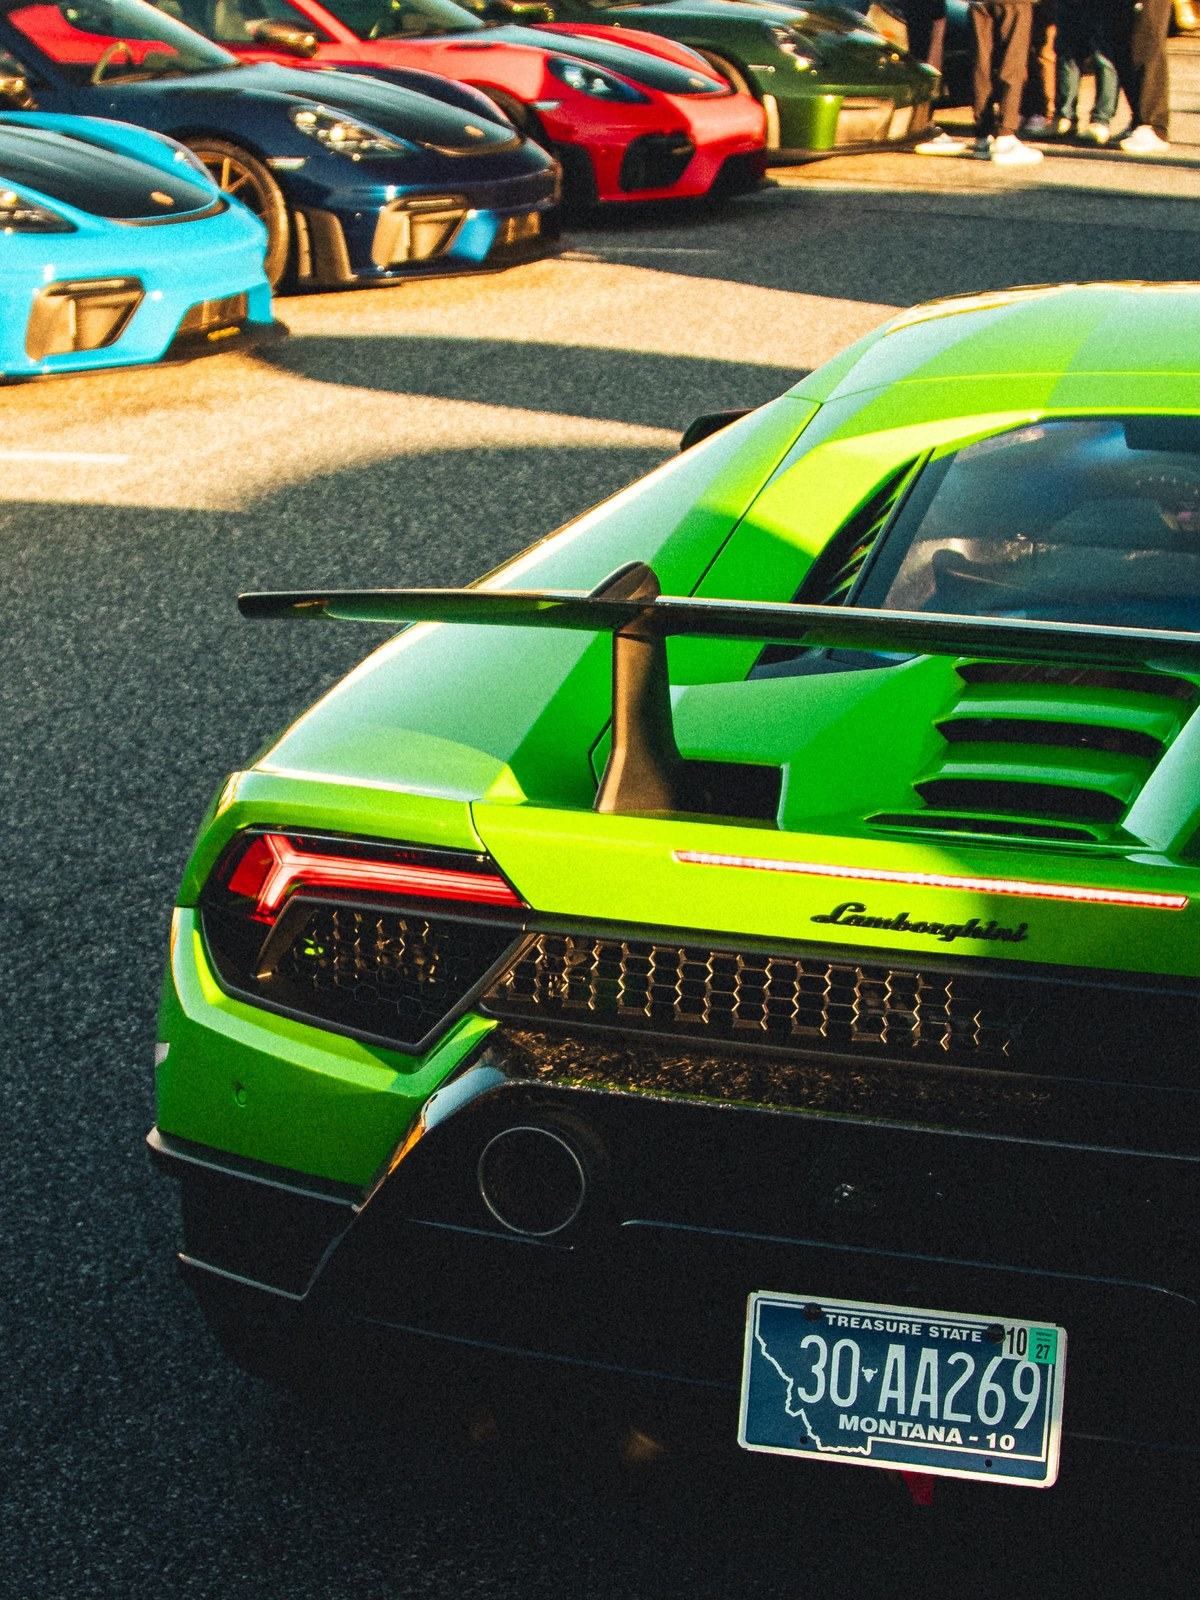
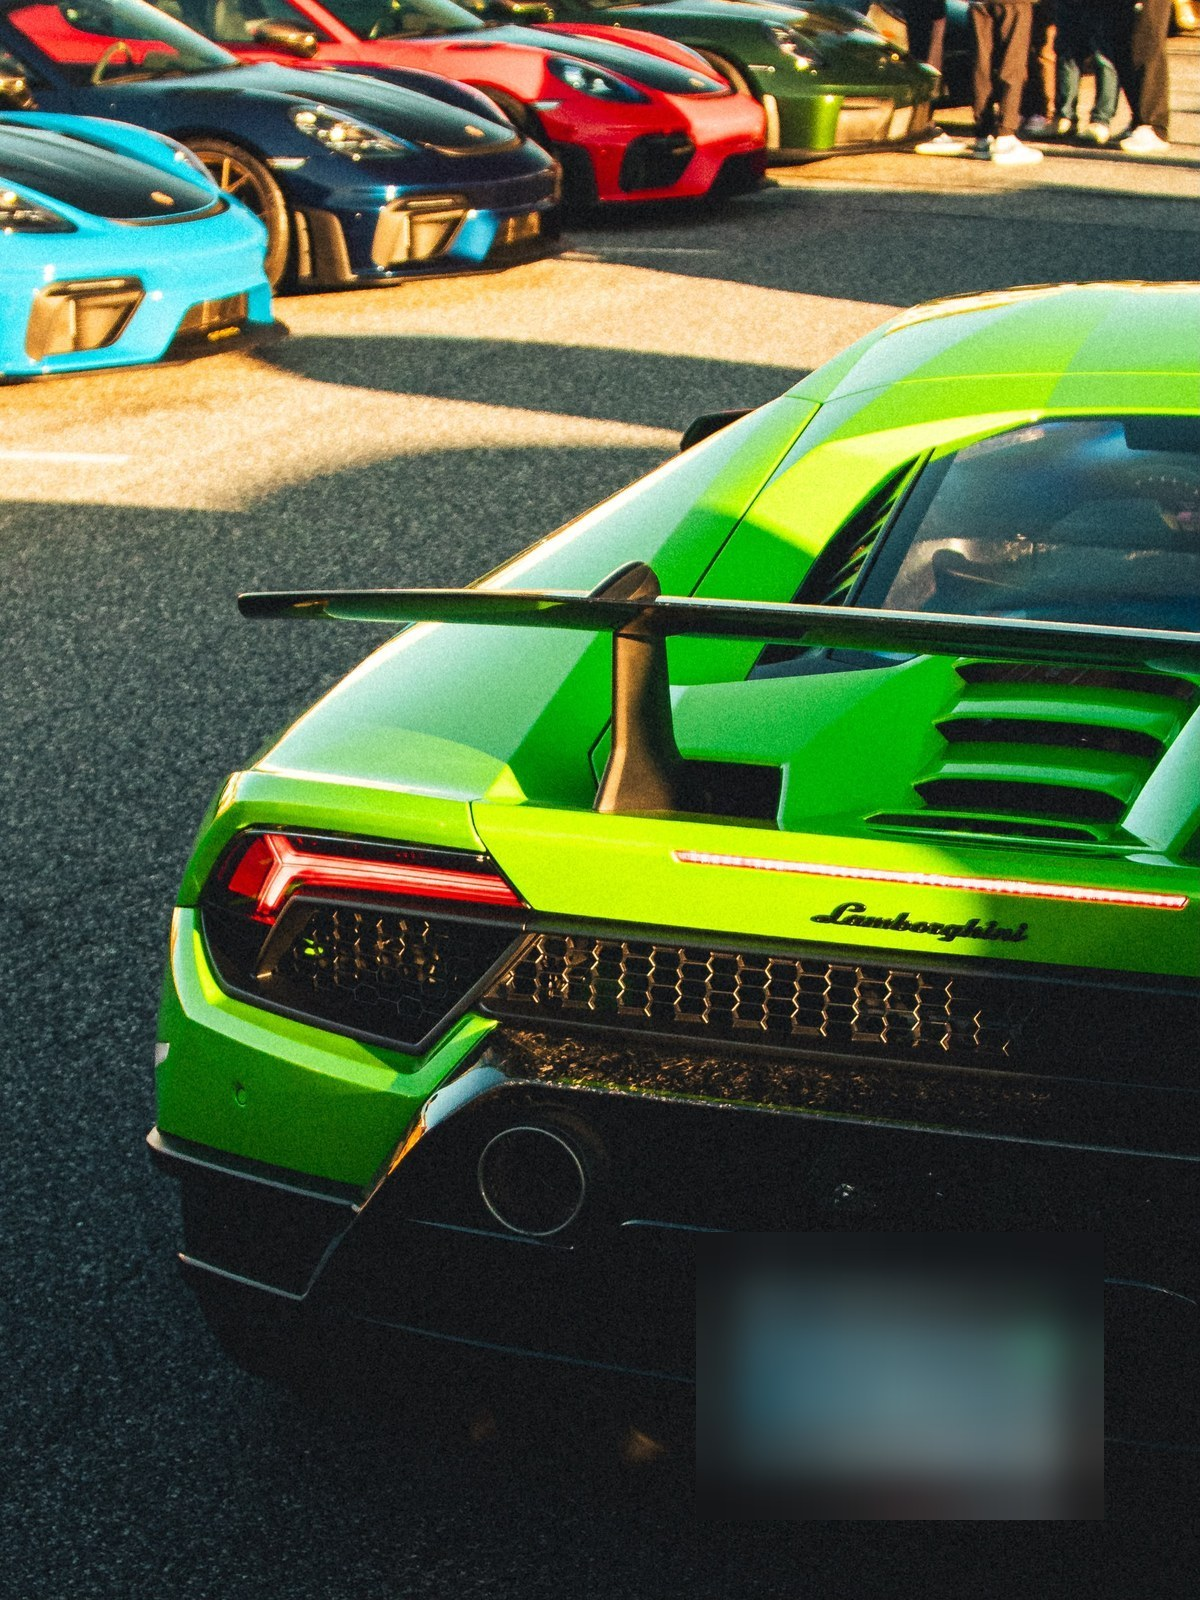
Car photos: blur plates, credit owners; privacy and terms cover them
- License plates are blurred in the four car photos that showed one.
- The mountain post's photos credit the car's owner (@thatdernrs7), on the
  tile and in the viewer. The studio takes an optional car owner for car
  photos and credits them the same way.
- Privacy: every photo is by a Horizon Media team member; car photos come
  from meets and shoots, plates are blurred and owners credited where
  known; car owners can ask for removal like anyone in a photo.
- Terms: team photographers keep their photos and allow Horizon Media to
  show them; crediting a car owner gives no right to reuse the photo.

Claude-Session: https://claude.ai/code/session_01DKZsuJqVFUU8m5jPJktLAd

Changed region(s): [[0.5858, 0.7812, 0.925, 0.9688]]

diff --git a/cars.html b/cars.html
@@ -41,10 +41,10 @@
   <div class="wrap">
     <!-- Car photos. Photos added through the studio under "Cars" appear here too. -->
     <div class="gallery" data-studio="cars">
-      <button class="shot" type="button" data-credit="connors.visualss" data-sport="cars" data-full="img/cars/mountain-meet.jpg" data-post="https://www.instagram.com/p/Dfi9wfvjam3/?img_index=1" data-title="Mountain meet"><img src="img/cars/thumb/mountain-meet.jpg" alt="A purple sedan parked at a mountain overlook among other cars" width="480" height="640" loading="lazy"><span class="shot-info"><b>Mountain meet</b><span>Photo by @connors.visualss</span></span></button>
-      <button class="shot" type="button" data-credit="connors.visualss" data-sport="cars" data-full="img/cars/overlook.jpg" data-post="https://www.instagram.com/p/Dfi9wfvjam3/?img_index=2" data-title="Overlook"><img src="img/cars/thumb/overlook.jpg" alt="A purple sedan parked by a stone wall above a mountain valley" width="480" height="640" loading="lazy"><span class="shot-info"><b>Overlook</b><span>Photo by @connors.visualss</span></span></button>
-      <button class="shot" type="button" data-credit="connors.visualss" data-sport="cars" data-full="img/cars/grille.jpg" data-post="https://www.instagram.com/p/Dfi9wfvjam3/?img_index=3" data-title="Grille"><img src="img/cars/thumb/grille.jpg" alt="A close-up of a purple car's black honeycomb grille" width="480" height="640" loading="lazy"><span class="shot-info"><b>Grille</b><span>Photo by @connors.visualss</span></span></button>
-      <button class="shot" type="button" data-credit="connors.visualss" data-sport="cars" data-full="img/cars/wheel.jpg" data-post="https://www.instagram.com/p/Dfi9wfvjam3/?img_index=4" data-title="Wheel"><img src="img/cars/thumb/wheel.jpg" alt="A low close-up of a purple car's front wheel and fender" width="480" height="640" loading="lazy"><span class="shot-info"><b>Wheel</b><span>Photo by @connors.visualss</span></span></button>
+      <button class="shot" type="button" data-credit="connors.visualss" data-owner="thatdernrs7" data-sport="cars" data-full="img/cars/mountain-meet.jpg" data-post="https://www.instagram.com/p/Dfi9wfvjam3/?img_index=1" data-title="Mountain meet"><img src="img/cars/thumb/mountain-meet.jpg" alt="A purple sedan parked at a mountain overlook among other cars" width="480" height="640" loading="lazy"><span class="shot-info"><b>Mountain meet</b><span>Photo by @connors.visualss · Car: @thatdernrs7</span></span></button>
+      <button class="shot" type="button" data-credit="connors.visualss" data-owner="thatdernrs7" data-sport="cars" data-full="img/cars/overlook.jpg" data-post="https://www.instagram.com/p/Dfi9wfvjam3/?img_index=2" data-title="Overlook"><img src="img/cars/thumb/overlook.jpg" alt="A purple sedan parked by a stone wall above a mountain valley" width="480" height="640" loading="lazy"><span class="shot-info"><b>Overlook</b><span>Photo by @connors.visualss · Car: @thatdernrs7</span></span></button>
+      <button class="shot" type="button" data-credit="connors.visualss" data-owner="thatdernrs7" data-sport="cars" data-full="img/cars/grille.jpg" data-post="https://www.instagram.com/p/Dfi9wfvjam3/?img_index=3" data-title="Grille"><img src="img/cars/thumb/grille.jpg" alt="A close-up of a purple car's black honeycomb grille" width="480" height="640" loading="lazy"><span class="shot-info"><b>Grille</b><span>Photo by @connors.visualss · Car: @thatdernrs7</span></span></button>
+      <button class="shot" type="button" data-credit="connors.visualss" data-owner="thatdernrs7" data-sport="cars" data-full="img/cars/wheel.jpg" data-post="https://www.instagram.com/p/Dfi9wfvjam3/?img_index=4" data-title="Wheel"><img src="img/cars/thumb/wheel.jpg" alt="A low close-up of a purple car's front wheel and fender" width="480" height="640" loading="lazy"><span class="shot-info"><b>Wheel</b><span>Photo by @connors.visualss · Car: @thatdernrs7</span></span></button>
       <button class="shot" type="button" data-credit="cb.framed.it" data-sport="cars" data-full="img/cars/green-machine.jpg" data-post="https://www.instagram.com/p/DflZh7SFk0Q/?img_index=1" data-title="Green machine"><img src="img/cars/thumb/green-machine.jpg" alt="A lime green supercar parked at a car meet in the late sun" width="480" height="640" loading="lazy"><span class="shot-info"><b>Green machine</b><span>Photo by @cb.framed.it</span></span></button>
       <button class="shot" type="button" data-credit="cb.framed.it" data-sport="cars" data-full="img/cars/pulling-in.jpg" data-post="https://www.instagram.com/p/DflZh7SFk0Q/?img_index=2" data-title="Pulling in"><img src="img/cars/thumb/pulling-in.jpg" alt="A lime green supercar rolls into a busy car meet" width="480" height="640" loading="lazy"><span class="shot-info"><b>Pulling in</b><span>Photo by @cb.framed.it</span></span></button>
       <button class="shot" type="button" data-credit="cb.framed.it" data-sport="cars" data-full="img/cars/nose.jpg" data-post="https://www.instagram.com/p/DflZh7SFk0Q/?img_index=3" data-title="Nose"><img src="img/cars/thumb/nose.jpg" alt="A close-up of a lime green supercar's nose and badge" width="480" height="640" loading="lazy"><span class="shot-info"><b>Nose</b><span>Photo by @cb.framed.it</span></span></button>

diff --git a/terms.html b/terms.html
@@ -25,14 +25,15 @@
 <main class="legal">
   <div class="wrap">
     <h1>Terms</h1>
-    <p class="updated">Last updated November 10, 2026</p>
+    <p class="updated">Last updated November 13, 2026</p>
 
     <p>These terms cover using the Horizon Media website. By using the site, you agree to them. If you don't agree, please don't use the site.</p>
 
     <h2>The photos</h2>
-    <p>Every photo on this site belongs to the photographer credited with it. Showing a photo here does not give anyone permission to use it.</p>
+    <p>Every photo on this site was taken by a member of the Horizon Media team and belongs to the photographer credited with it. Our photographers allow Horizon Media to show their photos on this site. Showing a photo here does not give anyone else permission to use it.</p>
     <p>You may look at the photos and share links to this site. You may not download, copy, edit, print, sell or repost them, or remove a credit or watermark, without the photographer's written permission. To ask, <a href="https://ig.me/m/hor1zonmedia">message us on Instagram at @hor1zonmedia</a> or email <a href="mailto:horzion.media418@gmail.com">horzion.media418@gmail.com</a>.</p>
-    <p>If you are in a photo and want it removed from this website, see <a href="privacy.html">how to ask on the privacy page</a>.</p>
+    <p>Car owners credited on a photo are named to recognise their car. Being credited does not give them, or anyone else, the right to use the photo without the photographer's permission.</p>
+    <p>If you are in a photo, or own a car shown in one, and want it removed from this website, see <a href="privacy.html">how to ask on the privacy page</a>.</p>
 
     <h2>Booking coverage</h2>
     <p>The booking form is a request, not a confirmed booking. A booking is confirmed only when we reply and agree the date, what we will cover and any price with you. Anything we agree in those messages applies to that booking.</p>

diff --git a/privacy.html b/privacy.html
@@ -25,7 +25,7 @@
 <main class="legal">
   <div class="wrap">
     <h1>Privacy</h1>
-    <p class="updated">Last updated November 10, 2026</p>
+    <p class="updated">Last updated November 13, 2026</p>
 
     <p>This page explains what the Horizon Media website collects when you visit, what happens when you book coverage, and how to ask for a photo to be taken down.</p>
 
@@ -44,10 +44,12 @@
     <p>Links on this site open Instagram. Once you are there, <a href="https://privacycenter.instagram.com/policy">Instagram's privacy policy</a> applies. This site does not load anything from Instagram while you browse it.</p>
 
     <h2>Our photos</h2>
-    <p>Our photographers take photos at games and events with media credentials issued for those events.</p>
+    <p>Every photo on this site was taken by a member of the Horizon Media team, and each one names its photographer.</p>
+    <p>Our sports photos are taken at games and events with media credentials issued for those events.</p>
+    <p>Our car photos are taken at car meets and car shoots. We blur license plates before a car photo goes on this site, and where we know who owns a car, we credit them.</p>
 
     <h2>Asking for a photo to be removed</h2>
-    <p>If you are in a photo on this site, or you are the parent or guardian of someone who is, you can ask us to remove it from this website. You don't need to give a reason.</p>
+    <p>If you are in a photo on this site, you are the parent or guardian of someone who is, or a car you own is shown, you can ask us to remove it from this website. You don't need to give a reason.</p>
     <ol>
       <li><a href="https://ig.me/m/hor1zonmedia">Message us on Instagram at @hor1zonmedia</a>, or email <a href="mailto:horzion.media418@gmail.com">horzion.media418@gmail.com</a>.</li>
       <li>Tell us which photo it is: the page it is on and its title, or a screenshot of it.</li>

diff --git a/netlify/guard/photo-variants.js b/netlify/guard/photo-variants.js
@@ -8,7 +8,7 @@ export default {
     "saver": "img/saver/cars/cockpit.jpg"
   },
   "img/cars/green-machine.jpg": {
-    "source": "2364218df8840599",
+    "source": "558885a640332622",
     "lite": "img/lite/cars/green-machine.jpg",
     "saver": "img/saver/cars/green-machine.jpg"
   },
@@ -38,12 +38,12 @@ export default {
     "saver": "img/saver/cars/pulling-in.jpg"
   },
   "img/cars/rear-wing.jpg": {
-    "source": "2d566789ab9fda4e",
+    "source": "dd1101a940229fdc",
     "lite": "img/lite/cars/rear-wing.jpg",
     "saver": "img/saver/cars/rear-wing.jpg"
   },
   "img/cars/rolling-out.jpg": {
-    "source": "9cf85591d82c5e52",
+    "source": "6673cf6a9ea32413",
     "lite": "img/lite/cars/rolling-out.jpg",
     "saver": "img/saver/cars/rolling-out.jpg"
   },
@@ -51,7 +51,7 @@ export default {
     "source": "e7ae4abee9e8eec5"
   },
   "img/cars/thumb/green-machine.jpg": {
-    "source": "2364218df8840599"
+    "source": "558885a640332622"
   },
   "img/cars/thumb/grille.jpg": {
     "source": "138d7e3d9df3a447"
@@ -69,16 +69,16 @@ export default {
     "source": "8ed89444bc048335"
   },
   "img/cars/thumb/rear-wing.jpg": {
-    "source": "2d566789ab9fda4e"
+    "source": "dd1101a940229fdc"
   },
   "img/cars/thumb/rolling-out.jpg": {
-    "source": "9cf85591d82c5e52"
+    "source": "6673cf6a9ea32413"
   },
   "img/cars/thumb/wheel.jpg": {
-    "source": "4ec0224ab2131375"
+    "source": "0d13051c24f0bdbe"
   },
   "img/cars/wheel.jpg": {
-    "source": "4ec0224ab2131375",
+    "source": "0d13051c24f0bdbe",
     "lite": "img/lite/cars/wheel.jpg",
     "saver": "img/saver/cars/wheel.jpg"
   },

diff --git a/js/portfolio.js b/js/portfolio.js
@@ -25,7 +25,8 @@
     const link = document.createElement("a");
     link.href = shot.dataset.post;
     link.textContent = shot.dataset.post.includes("/p/") ? "See the post on Instagram" : "See more on Instagram";
-    caption.append(title, `Photo by @${shot.dataset.credit}. `, link);
+    const owner = shot.dataset.owner ? ` Car: @${shot.dataset.owner}.` : "";
+    caption.append(title, `Photo by @${shot.dataset.credit}.${owner} `, link);
     count.textContent = `${open + 1} / ${list.length}`;
   }
 
@@ -65,6 +66,7 @@
         shot.dataset.full = `uploads/${photo.id}/full.jpg`;
         shot.dataset.title = photo.title;
         shot.dataset.credit = photo.credit;
+        if (photo.owner) shot.dataset.owner = photo.owner;
         shot.dataset.post = `https://www.instagram.com/${encodeURIComponent(photo.credit)}/`;
         const image = document.createElement("img");
         image.src = `uploads/${photo.id}/thumb.jpg`;
@@ -75,7 +77,7 @@
         const title = document.createElement("b");
         title.textContent = photo.title;
         const credit = document.createElement("span");
-        credit.textContent = `Photo by @${photo.credit}`;
+        credit.textContent = `Photo by @${photo.credit}` + (photo.owner ? ` · Car: @${photo.owner}` : "");
         info.append(title, credit);
         shot.append(image, info);
         wire(shot);

diff --git a/netlify/studio/page.js b/netlify/studio/page.js
@@ -43,6 +43,7 @@ const signedIn = `<form id="add">
   const options = sports.map(([value, label]) => `<option value="${value}">${label.replace("&", "&amp;")}</option>`).join("");
   return season ? `<optgroup label="${season}">${options}</optgroup>` : options;
 }).join("")}</select>
+<label for="owner">Car owner's Instagram name (car photos only, optional)</label><input id="owner" name="owner" maxlength="40" placeholder="thatdernrs7">
 <button class="btn btn-hot">Add to the portfolio</button> <button class="btn" type="button" id="logout">Sign out</button>
 <p class="note">The photo is shrunk to website size on this device before it is sent. It appears on the portfolio page within a minute.</p>
 <p role="status"></p></form>

diff --git a/netlify/studio/studio.js b/netlify/studio/studio.js
@@ -141,6 +141,8 @@ export function createStudio() {
       const id = hex(crypto.getRandomValues(new Uint8Array(8)));
       const sport = SPORTS.includes(form.get("sport")) ? form.get("sport") : "other";
       const photo = { id, title: clean(form.get("title"), 60) || "Untitled", credit: clean(form.get("credit"), 40).replace(/^@+/, ""), sport, added: now };
+      const owner = clean(form.get("owner"), 40).replace(/^@+/, "");
+      if (sport === "cars" && owner) photo.owner = owner; // the car's owner, credited on the car page
       await Promise.all([
         store().set(`photo/${id}/full`, fullBytes.buffer),
         store().set(`photo/${id}/thumb`, thumbBytes.buffer),
